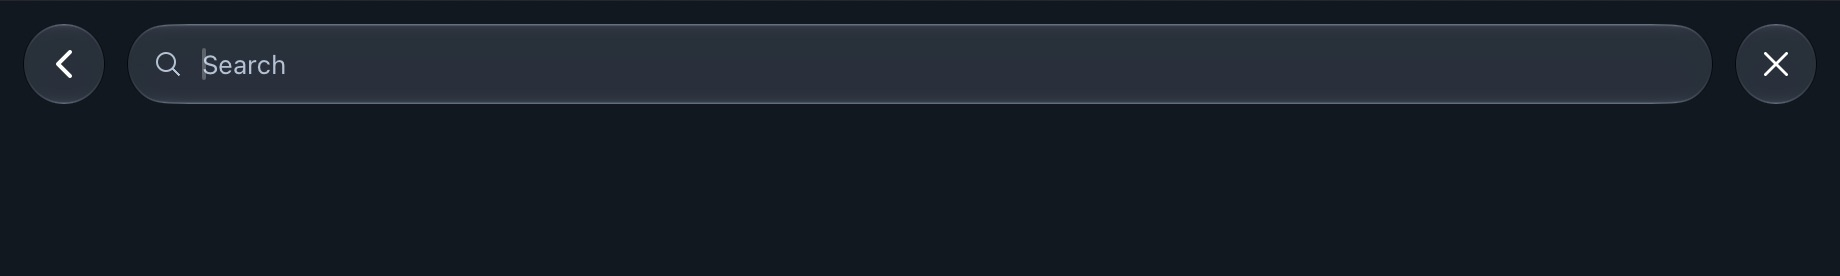
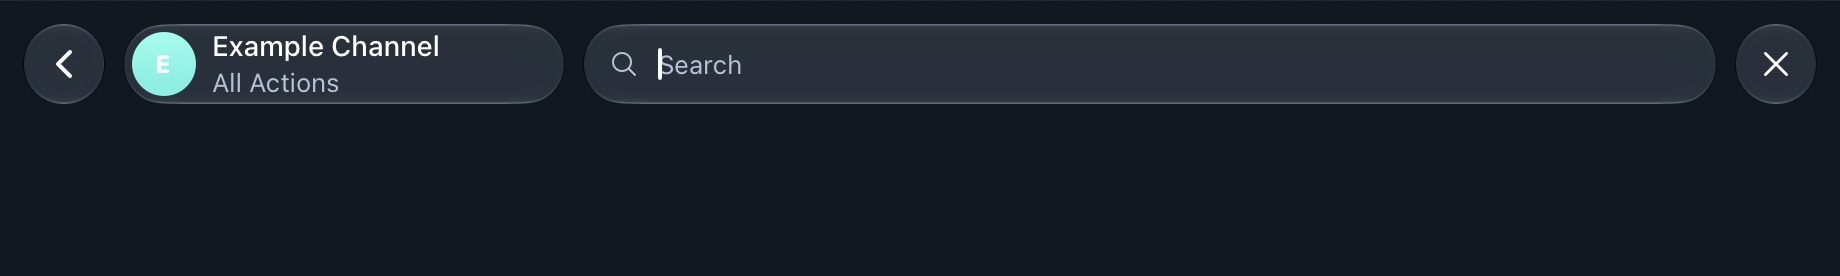
Record compact channel context and inline search verification

Changed region(s): [[0.062, 0.1159, 0.2478, 0.3478], [0.2788, 0.087, 0.4027, 0.3768]]

diff --git a/controller-after.swift b/controller-after.swift
@@ -13,6 +13,7 @@ import AlertsUI
 import MessageUtils
 import ChatHistoryModel
 import ChatUI
+import AvatarUI
 
 
 
@@ -36,31 +37,97 @@ enum ChannelEventLogState {
 
 private final class EventLogTitleBarView: TitledBarView {
     let searchView = SearchView(frame: .zero)
+    private let glassContainer = GlassContainerView(frame: .zero, spacing: 10)
+    private let titleGlass = LiquidGlassView(frame: .zero, cornerRadius: 20, hasShadow: false, hasBorder: true)
     private let searchGlass = LiquidGlassView(frame: .zero, cornerRadius: 20, hasShadow: false, hasBorder: true)
+    private let titleContent = View(frame: .zero)
+    private let titleText = TextView()
+    private let statusText = TextView()
+    private let searchContent = View(frame: .zero)
+    private let avatar = AvatarStoryControl(font: .avatar(12), size: NSMakeSize(32, 32))
+    private var searching = false
+    private var searchTransitionId: UInt = 0
 
     override init(controller: ViewController, _ text: NSAttributedString? = nil, _ status: NSAttributedString? = nil, textInset: CGFloat? = nil) {
-        super.init(controller: controller, text, status, textInset: textInset)
-        addSubview(searchGlass)
-        addSubview(searchView)
-        setSearching(false)
+        super.init(controller: controller, text, status, textInset: 0)
+        addSubview(glassContainer)
+        glassContainer.addGhost(titleGlass)
+        glassContainer.addGhost(searchGlass)
+        addSubview(titleContent)
+        containerView.isHidden = true
+        titleContent.addSubview(titleText)
+        titleContent.addSubview(statusText)
+        titleText.isSelectable = false
+        statusText.isSelectable = false
+        titleText.isEventLess = true
+        statusText.isEventLess = true
+        titleContent.addSubview(avatar)
+        titleContent.layer?.masksToBounds = true
+        titleContent.layer?.cornerRadius = 20
+        avatar.userInteractionEnabled = false
+        addSubview(searchContent)
+        searchContent.addSubview(searchView)
+        searchContent.layer?.masksToBounds = true
+        searchContent.layer?.cornerRadius = 20
+        searchContent.isHidden = true
+        searchGlass.isHidden = true
+        searchContent.layer?.opacity = 0
+        ContainedViewLayoutTransition.immediate.updateAlpha(view: searchGlass, alpha: 0)
         searchView.backgroundColor = .clear
     }
 
+    func setPeer(account: Account, peer: Peer) {
+        avatar.setPeer(account: account, peer: peer, disableForum: true)
+    }
+
     func setSearching(_ value: Bool) {
-        containerView.isHidden = value
-        searchGlass.isHidden = !value
-        searchView.isHidden = !value
-        needsLayout = true
+        guard searching != value else { return }
+        layoutSubtreeIfNeeded()
+        searching = value
+        searchTransitionId &+= 1
+        let transitionId = searchTransitionId
+        searchContent.isHidden = false
+        searchGlass.isHidden = false
+        let reduceMotion = NSWorkspace.shared.accessibilityDisplayShouldReduceMotion
+        let transition: ContainedViewLayoutTransition = .animated(duration: reduceMotion ? 0.1 : ChatInputSendButton.fieldMotionDuration, curve: .easeOut)
+        updateLayout(size: bounds.size, transition: reduceMotion ? .immediate : transition)
+        transition.updateAlpha(view: searchContent, alpha: value ? 1 : 0)
+        transition.updateAlpha(view: searchGlass, alpha: value ? 1 : 0, completion: { [weak self] _ in
+            guard let self, self.searchTransitionId == transitionId else { return }
+            self.searchContent.isHidden = !value
+            self.searchGlass.isHidden = !value
+        })
     }
 
     override func updateLayout(size: NSSize, transition: ContainedViewLayoutTransition) {
         super.updateLayout(size: size, transition: transition)
-        let left = (controller?.leftBarView?.frame.maxX ?? 52) + 12
-        let right = (controller?.rightBarView?.frame.minX ?? size.width - 52) - 12
-        let rect = NSMakeRect(left, (size.height - 40) / 2, max(0, right - left), 40)
-        transition.updateFrame(view: searchGlass, frame: rect)
-        transition.updateFrame(view: searchView, frame: rect)
-        searchGlass.updateLayout(size: rect.size, transition: transition)
+        transition.updateFrame(view: glassContainer, frame: NSRect(origin: .zero, size: size))
+        glassContainer.updateLayout(size: size, transition: transition)
+        let left = (controller?.leftBarView?.frame.maxX ?? 52) + 10
+        let right = (controller?.rightBarView?.frame.minX ?? size.width - 52) - 10
+        let availableWidth = max(0, right - left)
+        let preferredTitleWidth = max(text?.size().width ?? 0, status?.size().width ?? 0) + 62
+        let compactTitleWidth = min(min(260, max(220, preferredTitleWidth)), max(40, availableWidth - 170))
+        let titleWidth = compactTitleWidth
+        let y = (size.height - 40) / 2
+        let titleRect = NSMakeRect(left, y, titleWidth, 40)
+        let expandedSearchRect = NSMakeRect(left + compactTitleWidth + 10, y, max(0, availableWidth - compactTitleWidth - 10), 40)
+        let searchRect = searching ? expandedSearchRect : NSMakeRect(right - 40, y, 40, 40)
+        glassContainer.setGhostFrame(titleGlass, frame: titleRect, transition: transition)
+        glassContainer.setGhostFrame(searchGlass, frame: searchRect, transition: transition)
+        transition.updateFrame(view: titleContent, frame: titleRect)
+        transition.updateFrame(view: searchContent, frame: searchRect)
+        avatar.frame = NSMakeRect(4, 4, 32, 32)
+        let titleLayout = TextViewLayout(text ?? NSAttributedString(), maximumNumberOfLines: 1)
+        let statusLayout = TextViewLayout(status ?? NSAttributedString(), maximumNumberOfLines: 1)
+        titleLayout.measure(width: max(1, titleWidth - 58))
+        statusLayout.measure(width: max(1, titleWidth - 58))
+        titleText.update(titleLayout)
+        statusText.update(statusLayout)
+        let titleY = floor((40 - titleLayout.layoutSize.height - statusLayout.layoutSize.height - 2) / 2)
+        titleText.setFrameOrigin(NSMakePoint(44, titleY))
+        statusText.setFrameOrigin(NSMakePoint(44, titleY + titleLayout.layoutSize.height + 2))
+        searchView.frame = NSRect(origin: .zero, size: expandedSearchRect.size)
     }
 
     override func layout() {
@@ -72,7 +139,9 @@ private final class EventLogTitleBarView: TitledBarView {
         super.updateLocalizationAndTheme(theme: theme)
         searchView.updateLocalizationAndTheme(theme: theme)
         searchView.backgroundColor = .clear
+        titleGlass.updateLocalizationAndTheme(theme: theme)
         searchGlass.updateLocalizationAndTheme(theme: theme)
+        needsLayout = true
     }
 
     required init(frame frameRect: NSRect) { fatalError("init(frame:) has not been implemented") }
@@ -415,7 +484,14 @@ open class ChannelEventLogController<Context: AccountContextProtocol>: TelegramG
     }
     
     open override func getCenterBarViewOnce() -> TitledBarView {
-        return EventLogTitleBarView(controller: self)
+        let bar = EventLogTitleBarView(controller: self)
+        bar.setPeer(account: context.account, peer: peer._asPeer())
+        return bar
+    }
+
+    open override func requestUpdateCenterBar() {
+        super.requestUpdateCenterBar()
+        centerBarView.needsLayout = true
     }
 
     private var searchView: SearchView? {
@@ -458,6 +534,13 @@ open class ChannelEventLogController<Context: AccountContextProtocol>: TelegramG
     open override func requestUpdateRightBar() {
         super.requestUpdateRightBar()
         if let bar = rightBarView as? ImageBarView {
+            if bar.button.imageView.image != searchButtonImage, bar.window != nil, !NSWorkspace.shared.accessibilityDisplayShouldReduceMotion {
+                let transition = CATransition()
+                transition.type = .fade
+                transition.duration = ChatInputSendButton.fieldMotionDuration
+                transition.timingFunction = CAMediaTimingFunction(name: .easeOut)
+                bar.button.imageView.layer?.add(transition, forKey: "eventLogSearchIcon")
+            }
             bar.set(image: searchButtonImage)
             bar.button.setAccessibilityLabel(inSearch ? strings().voiceOverCommonCancel : strings().voiceOverCommonSearch)
         }

diff --git a/NativeScene.swift b/NativeScene.swift
@@ -13,6 +13,11 @@ private final class CodexEventLogContext {
     func loadMoreEntries() {}
 }
 
+private final class CodexHeaderResizeButton: NSButton {
+    var resize: (() -> Void)?
+    @objc func performResize() { resize?() }
+}
+
 private final class CodexHeaderScene<Context: AccountContextProtocol> {
     let window: Window
     let navigation: NavigationViewController
@@ -28,6 +33,20 @@ private final class CodexHeaderScene<Context: AccountContextProtocol> {
         window.contentView = navigation.view
         navigation.viewDidAppear(false)
         navigation.push(controller, false)
+        for (index, width) in [CGFloat(920), CGFloat(400)].enumerated() {
+            let button = CodexHeaderResizeButton(frame: NSMakeRect(24 + CGFloat(index) * 130, 180, 120, 28))
+            button.title = width == 920 ? "Wide fixture" : "Compact fixture"
+            button.bezelStyle = .rounded
+            button.target = button
+            button.action = #selector(CodexHeaderResizeButton.performResize)
+            button.resize = { [weak window] in
+                guard let window else { return }
+                var frame = window.frame
+                frame.size.width = width
+                window.setFrame(frame, display: true)
+            }
+            navigation.view.addSubview(button)
+        }
         window.center()
         window.makeKeyAndOrderFront(nil)
     }

diff --git a/README.md b/README.md
@@ -1,18 +1,15 @@
-# Recent Actions navigation search — native comparison
+# Recent Actions compact header and inline search
 
-The two header captures use the actual ChannelEventLogController inside a full Debug arm64 Telegram client. Only its event-log source is replaced with an empty, loaded controlled source; the generic peer is Example Channel. No personal chat data or live admin-log requests are used.
+The captures use the actual ChannelEventLogController inside a full native Debug arm64 client, a generic Example Channel peer and a controlled empty event-log source. No personal chat data or live admin-log requests are used.
 
-- Before: upstream controller at 6540581e, with a second search row and duplicate search/close controls.
-- After: feature e988f480, with Back, search field and one close button in the title row.
-- macOS 27.0.1 (26A434), Xcode 27.2 (27B52), Telegram 13.1.0 (283357), identical 920 × 600 point windows.
-- Both diagnostic full-client builds completed with BUILD SUCCEEDED. Local SDK/profile build overrides are present; this is integration coverage.
+- Before: upstream 6540581e, second search row and duplicate controls.
+- After: compact channel avatar/title/status remain visible beside search; title pill has the same width open and closed. Source a08f845e, merged with upstream 3a82ed7d at 8a9819f5.
+- macOS 27.0.1 (26A434), Xcode 27.2 (27B52), Telegram 13.1.0 (283357), Debug arm64. 920 × 600 point before/after windows; extra compact capture at 400 points.
 
-## Verified interactions
-
-Cmd-F and the search button open the field, hide title/status and change the right icon to Cancel. An empty query has no Clear button. Typing reaches setFilter; Clear empties without closing. Escape, Cancel and repeated Cmd-F restore the title and reset the query. Back while searching completes the navigation pop. queries.json is the observed query callback record. Server filtering and older macOS runtimes were not exercised by this scene.
+The native pass verified open/close by keyboard and button, query callbacks, Clear without closing, restored title/context, repeated toggles, and both window widths. Both text lines fit; narrow widths truncate text without overlapping the input or buttons. Motion shares the existing chat field duration 0.22 seconds and easeOut; native GlassContainerView owns the title/search surfaces. Reduce Motion has immediate geometry and a short fade (system preference not toggled in this pass). The generation guard against stale close completions was added after the native pass and is included in the final shipping build. Screenshots document endpoints, not a video of intermediate frames. Live server result filtering and older macOS runtimes were not exercised by this scene.
 
 ## Reproduce
 
-Use a separately configured Debug checkout and an isolated test account/profile. Run `python3 run-native.py --source-root /path/to/telegram-macos --variant before -- YOUR_NORMAL_BUILD_COMMAND`, then launch that build with TELEGRAM_VALIDATION_ROOT set to enable the diagnostic scene. The scene does not implement profile isolation; retain the isolation configuration used by your own test build. Repeat with `--variant after`. The script restores the two temporarily substituted source files even if the build fails. The diagnostic window is named “Recent Actions header — neutral controller fixture”; select it from Window if the main window is active. Query callbacks are written to the process temporary directory as TelegramEventLogHeaderQueries.json.
+Use a separately configured Debug checkout with an isolated test account/profile. Run `python3 run-native.py --source-root /path/to/telegram-macos --variant before -- YOUR_NORMAL_BUILD_COMMAND`, then launch your isolated build with TELEGRAM_VALIDATION_ROOT set to enable the diagnostic window. Repeat with `--variant after`. The scene does not configure profile isolation itself: retain your own isolated build/profile setup. The script restores both source files after the build, including on failure. Select “Recent Actions header — neutral controller fixture” from Window. Use Wide fixture and Compact fixture for the two widths. Query callbacks are written to the process temporary directory as TelegramEventLogHeaderQueries.json.
 
-The evidence and test substitutions are on this separate branch; none are in the production patch.
+The evidence and substitutions are on this separate branch and are not part of the production patch.
